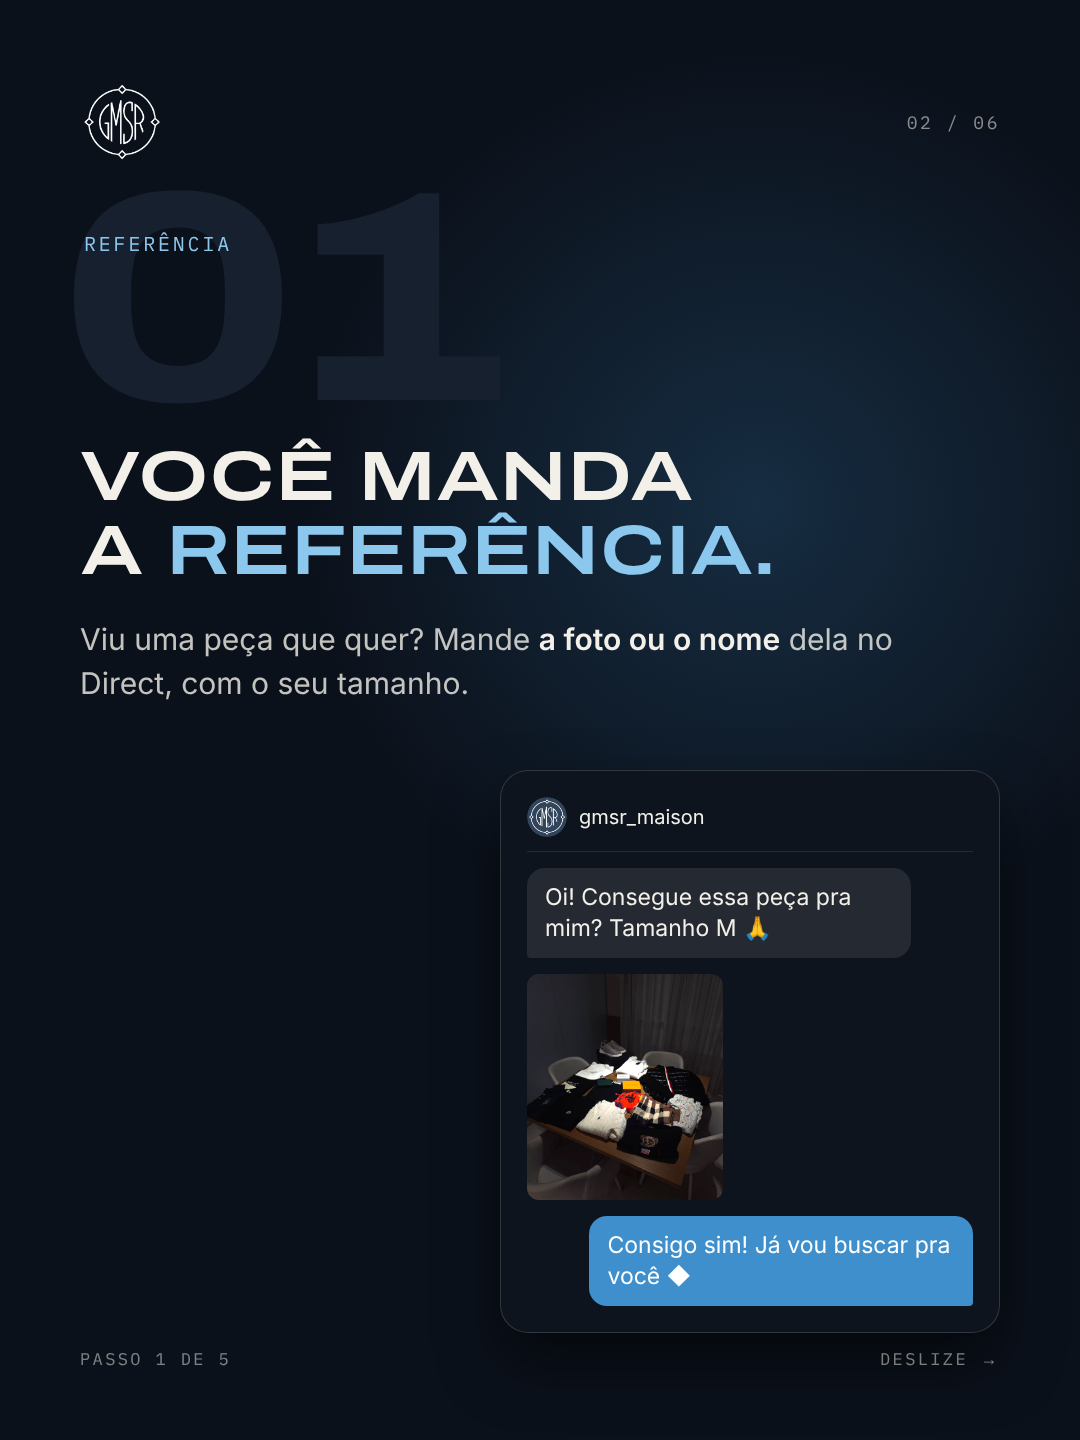
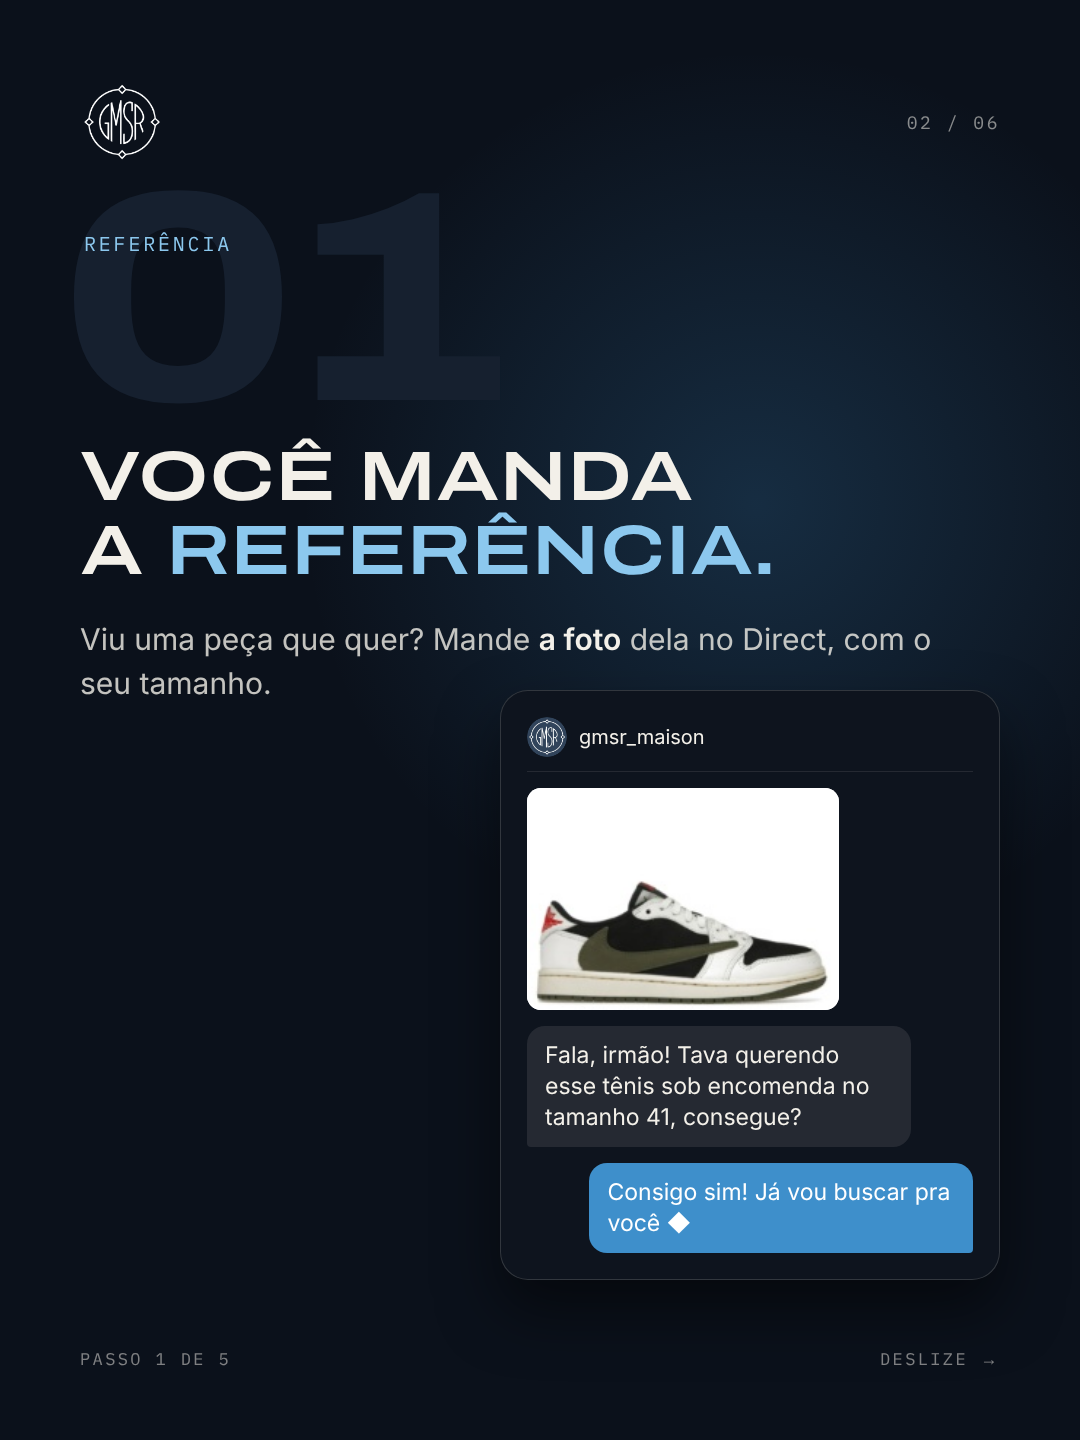
Carrossel: referência real do cliente no slide 01
- Foto do tênis enviada pelo cliente e a mensagem de pedido sob
  encomenda (tamanho 41), sem nome de marca no texto

Claude-Session: https://claude.ai/code/session_018Rxm36svjxPgU3W8TLCnbb

Changed region(s): [[0.4889, 0.5, 0.9167, 0.9062], [0.0611, 0.4688, 0.4278, 0.5], [0.5806, 0.4375, 0.8556, 0.4688]]

diff --git a/posts-grade/03-carrossel-processo/slides.html b/posts-grade/03-carrossel-processo/slides.html
@@ -86,6 +86,9 @@
   .chips i{font-style:normal;color:var(--sky)}
   .mini{position:absolute;right:60px;top:760px;width:560px;height:560px;z-index:2}
   .mini .mapa{width:100%;height:100%}
+  .phone.ref{top:690px}
+  .refimg{align-self:flex-start;width:70%;background:#fff;border-radius:14px;overflow:hidden}
+  .refimg img{width:100%;display:block}
 </style>
 </head>
 <body>
@@ -132,11 +135,11 @@
 <section class="slide tile"><div class="c3"><div class="top"><img src="../../assets/logo/gmsr-mono-branco.png" alt=""><span class="mono counter"></span></div>
   <div class="big">01</div><div class="lbl mono">Referência</div>
   <div class="body"><div class="w h">Você manda<br>a <em>referência.</em></div>
-    <p style="max-width:900px">Viu uma peça que quer? Mande <b>a foto ou o nome</b> dela no Direct, com o seu tamanho.</p></div>
-  <div class="phone">
+    <p style="max-width:900px">Viu uma peça que quer? Mande <b>a foto</b> dela no Direct, com o seu tamanho.</p></div>
+  <div class="phone ref">
     <div class="bar"><img src="../../assets/logo/gmsr-badge.png" alt="">gmsr_maison</div>
-    <div class="bub me">Oi! Consegue essa peça pra mim? Tamanho M 🙏</div>
-    <div class="media" style="align-self:flex-start;grid-template-columns:1fr;width:44%"><div><img src="../../assets/fotos/acervo-mesa.jpg" style="object-position:50% 62%;filter:brightness(1.3)" alt=""></div></div>
+    <div class="refimg"><img src="../../assets/fotos/referencia-tenis.jpg" alt=""></div>
+    <div class="bub me">Fala, irmão! Tava querendo esse tênis sob encomenda no tamanho 41, consegue?</div>
     <div class="bub us">Consigo sim! Já vou buscar pra você ◆</div>
   </div>
   <div class="foot mono"><span>Passo 1 de 5</span><span>Deslize →</span></div></div></section>
